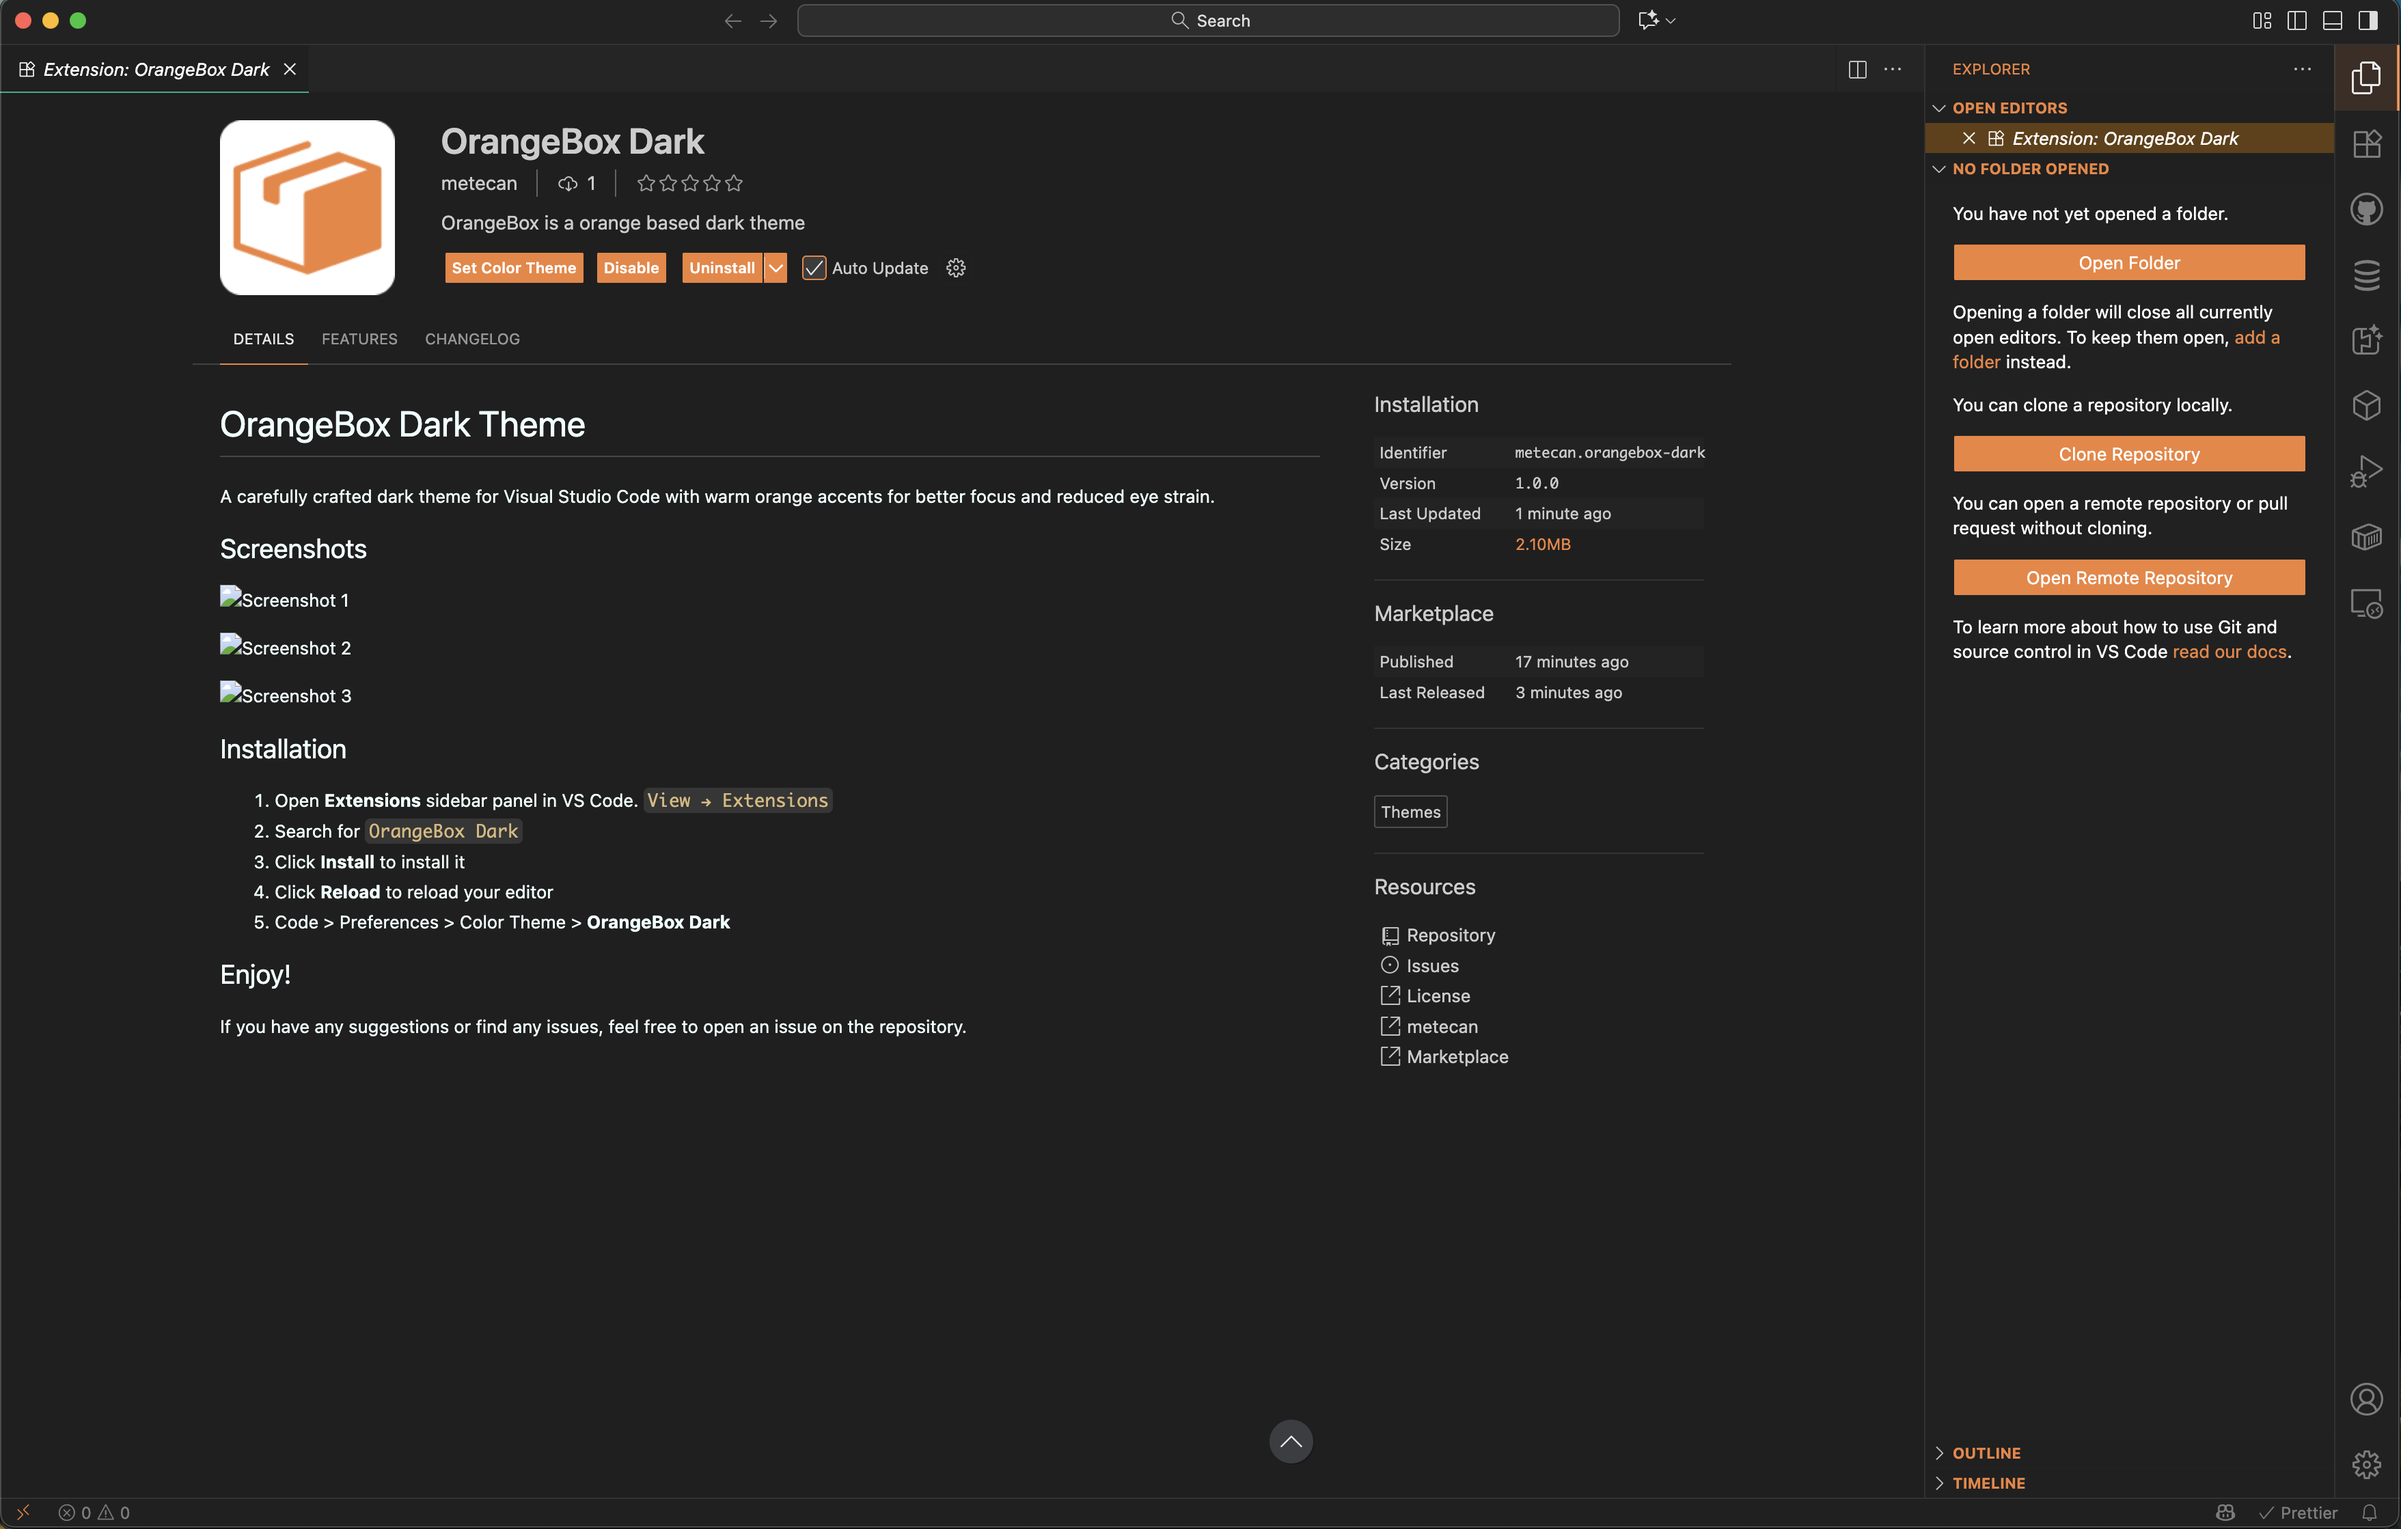
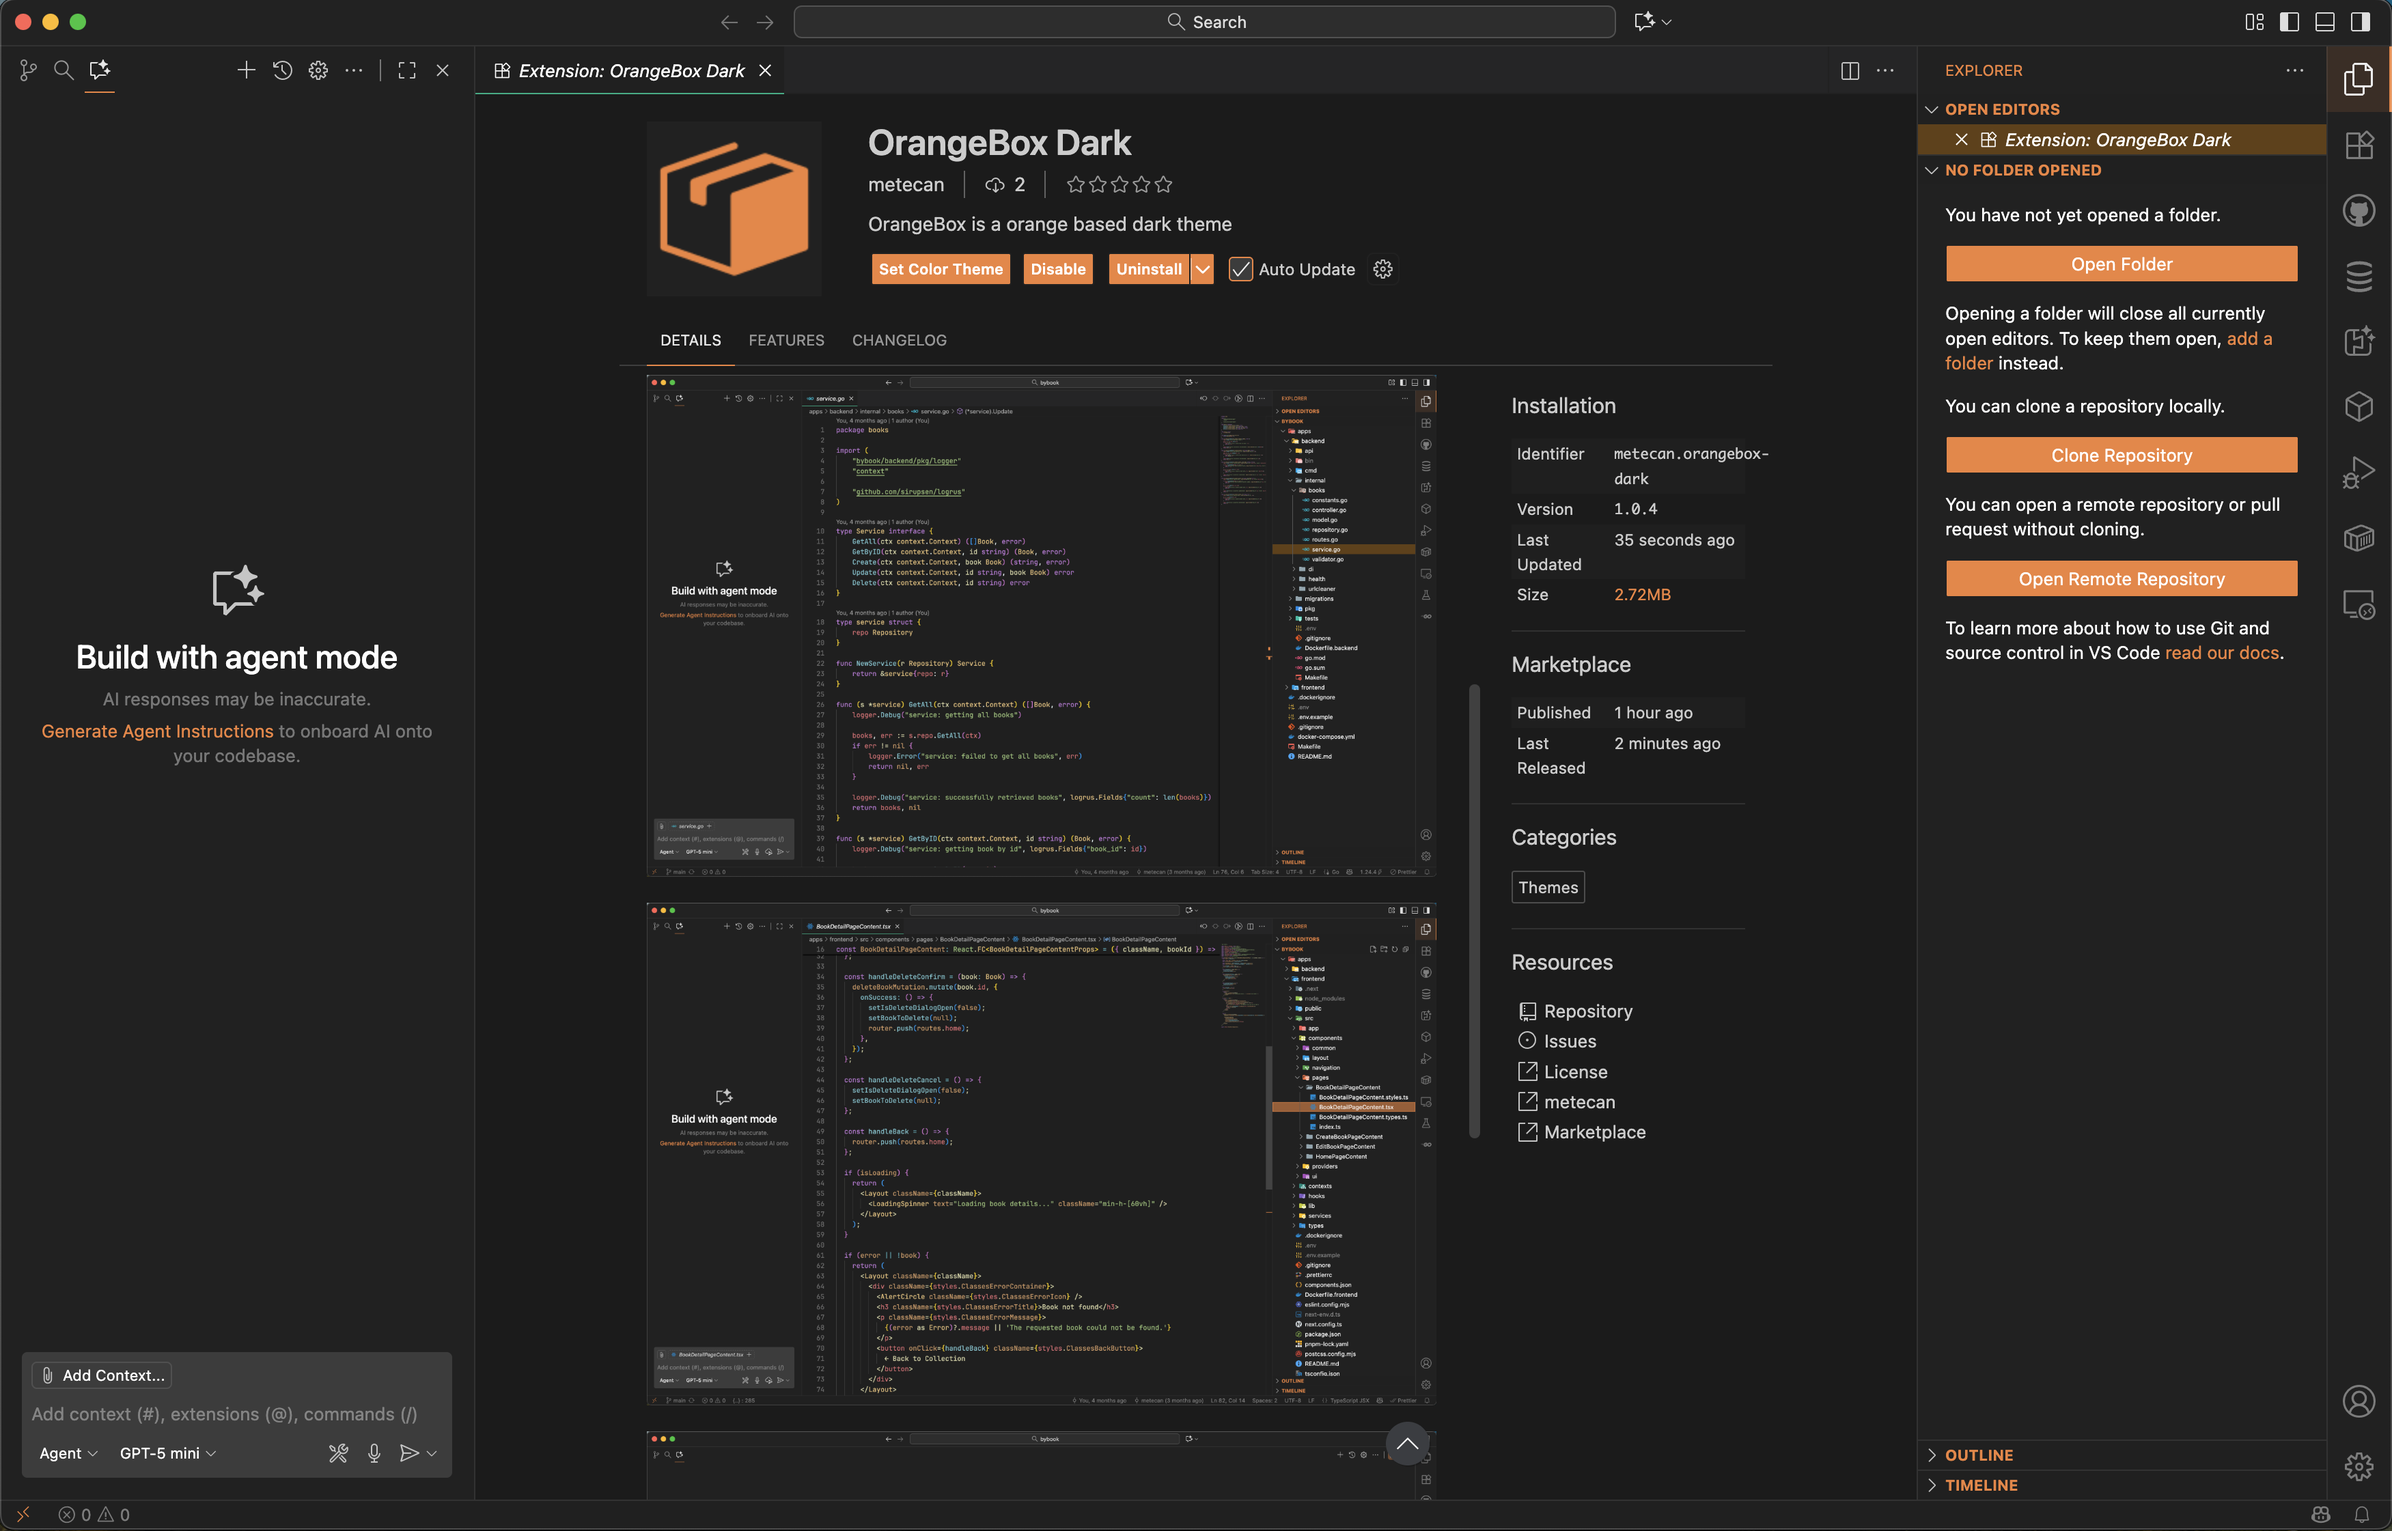
[FEAT]: Update CHANGELOG for version 1.0.5, add new screenshots, and bump version in package.json

diff --git a/CHANGELOG.md b/CHANGELOG.md
@@ -2,6 +2,10 @@
 
 All notable changes to the "orangebox-dark" extension will be documented in this file.
 
+## [1.0-5] - 2025-10-04
+
+### Changed
+- Updated README.md with additional information and screenshots
 
 ## [1.0.4] - 2025-10-04
 
